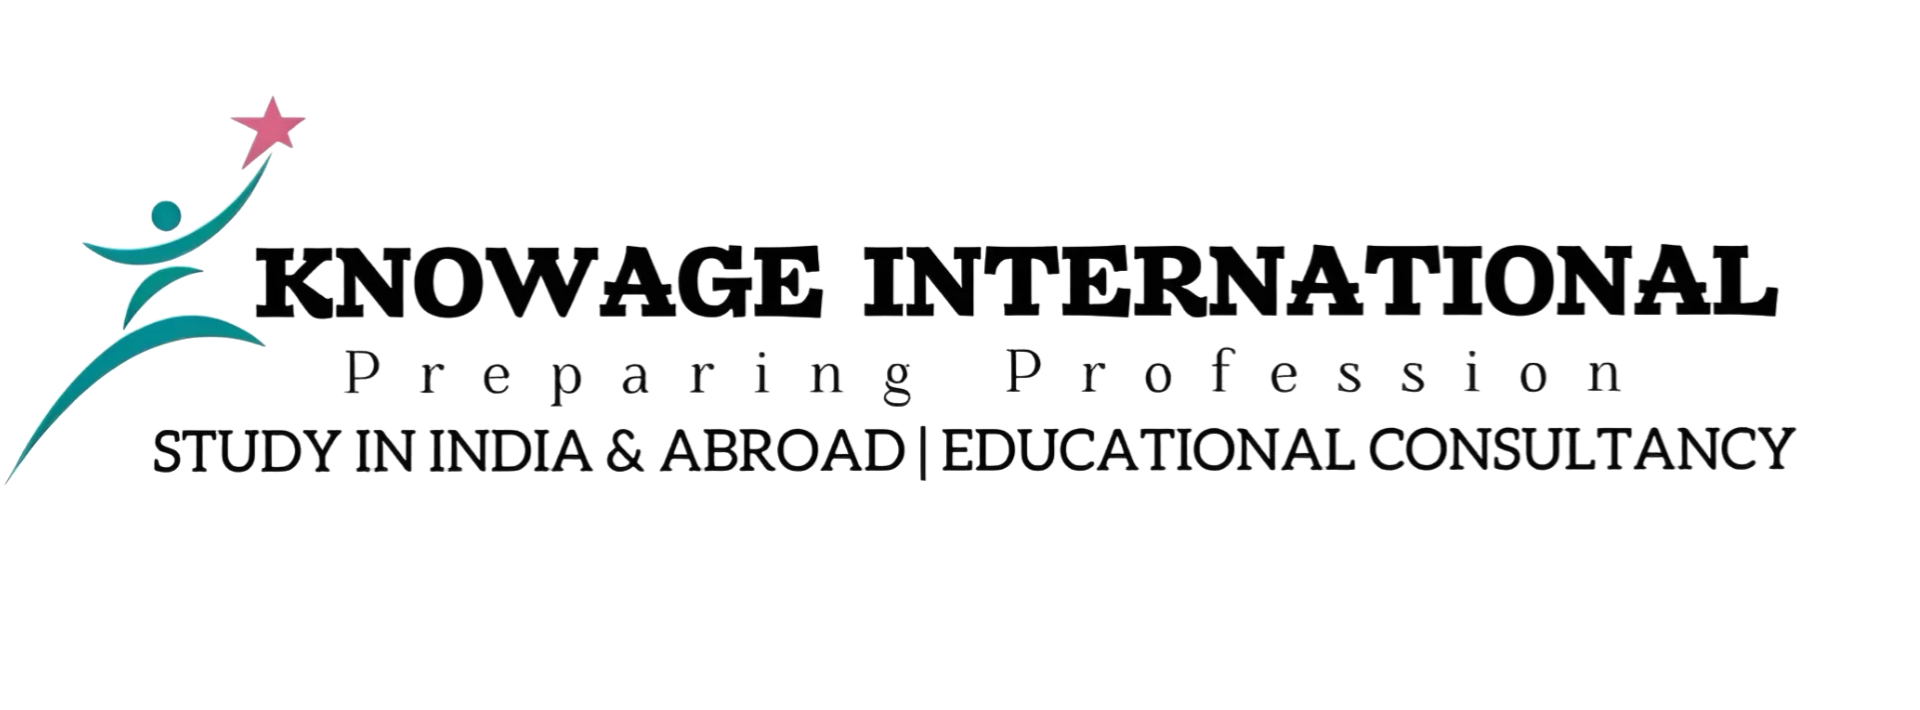
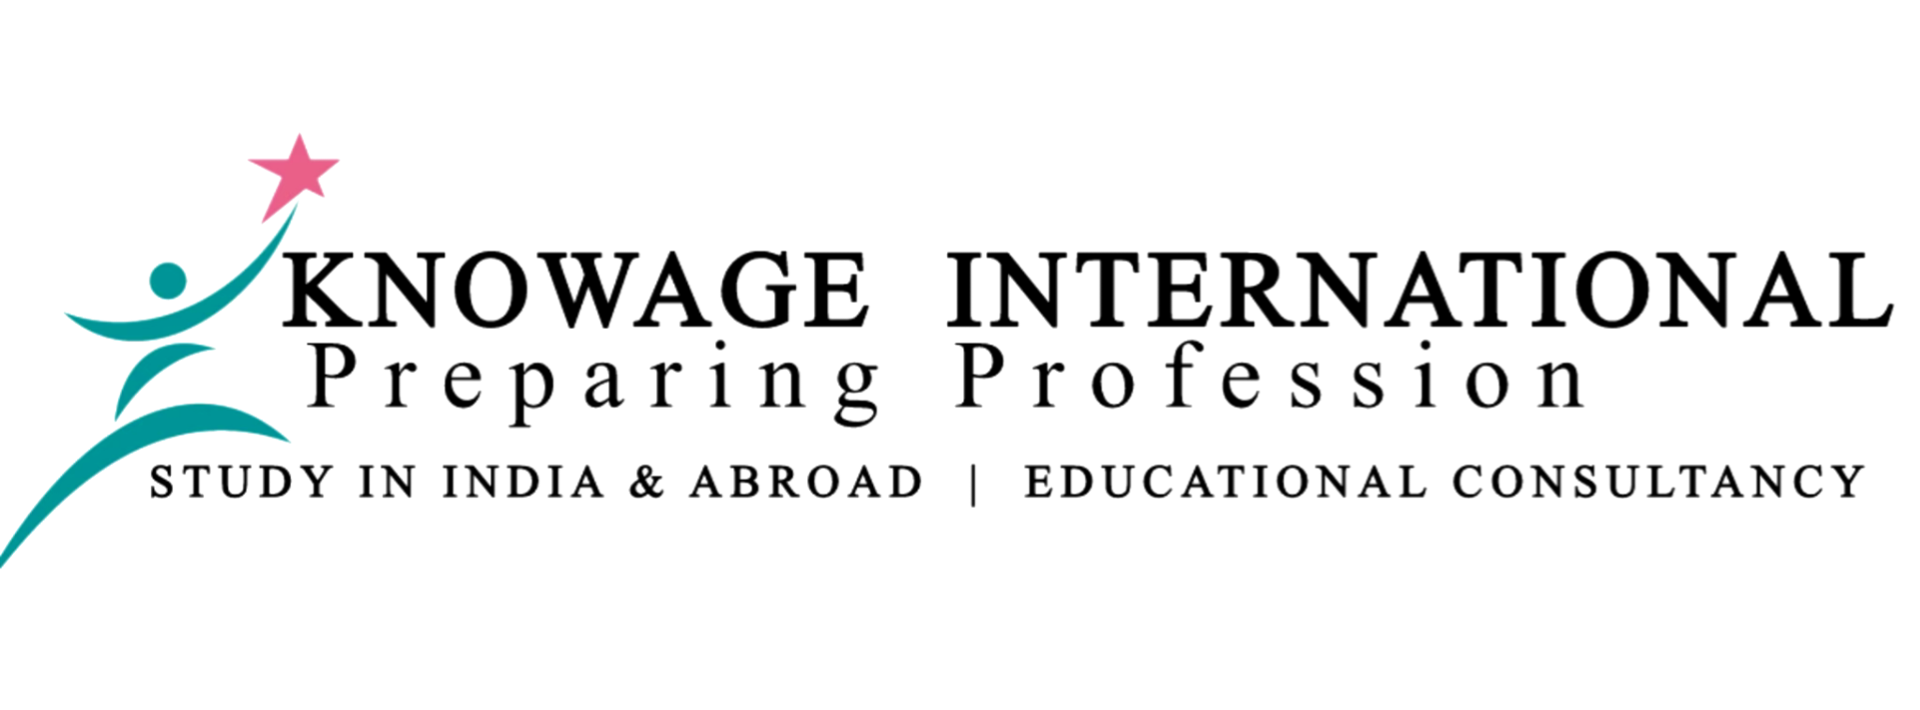
Navbar

Changed region(s): [[0.0, 0.1549, 1.0, 0.8056]]

diff --git a/src/components/Navbar.jsx b/src/components/Navbar.jsx
@@ -7,7 +7,7 @@ import { motion } from "framer-motion"
 import Button from "./Button"
 import { navigation } from "../constants"
 
-import { logo } from "../assets"
+import { darkLogo, lightLogo } from "../assets"
 import MenuSvg from "../assets/svg/MenuSvg"
 
 function Navbar() {
@@ -60,16 +60,24 @@ function Navbar() {
           navChange ? "bg-ks-white shadow-md" : "bg-transparent"
         }  transition-all`}
       >
-        <div className="flex items-center justify-between px-5 lg:px-7.5">
-          <Link to="/" className="flex items-center w-[12rem] lg:mr-8 ml-2">
-            <img src={logo} className="h-16 lg:h-20" alt="Knowage Solutions" />
-            <p
+        <div
+          className={`flex items-center justify-between px-5 lg:px-7.5 ${
+            !navChange ? "bg-gradient-to-b from-emerald-400/80" : ""
+          }`}
+        >
+          <Link to="/" className="flex items-center  lg:mr-8 ml-2">
+            <img
+              src={navChange ? darkLogo : lightLogo}
+              className={`${navChange ? "h-16 lg:h-20" : "h-20 lg:h-24"}`}
+              alt="Knowage Solutions"
+            />
+            {/* <p
               className={`${
                 !navChange ? "text-ks-white" : "text-ks-primary"
               } font-black uppercase -ml-2 lg:text-lg`}
             >
               Knowage
-            </p>
+            </p> */}
           </Link>
 
           {/* Responsive Navbar content */}
@@ -90,17 +98,19 @@ function Navbar() {
                   key={item.id}
                   to={item.url}
                   className={({ isActive }) =>
-                    `block relative font-code uppercase transition-colors hover:text-ks-primary ${
+                    `block relative font-code uppercase transition-colors ${
                       item.onlyMobile ? "lg:hidden" : ""
-                    } p-6 lg:-mr-0.25 lg:text-sm ${
+                    } lg:px-6 max-md:p-6 lg:-mr-0.25 lg:text-sm ${
                       isActive
                         ? `z-2 ${
-                            !navChange ? "text-ks-white" : "text-ks-primary"
+                            !navChange
+                              ? "text-ks-primary bg-ks-white rounded py-2"
+                              : "text-ks-white  bg-ks-primary rounded py-2"
                           } font-extrabold`
                         : `${
                             !navChange
-                              ? " text-ks-white/60"
-                              : "text-ks-primary/60"
+                              ? " text-ks-white/60  hover:text-ks-white"
+                              : "text-ks-primary/60  hover:text-ks-primary"
                           }  font-semibold`
                     } lg:leading-5`
                   }
